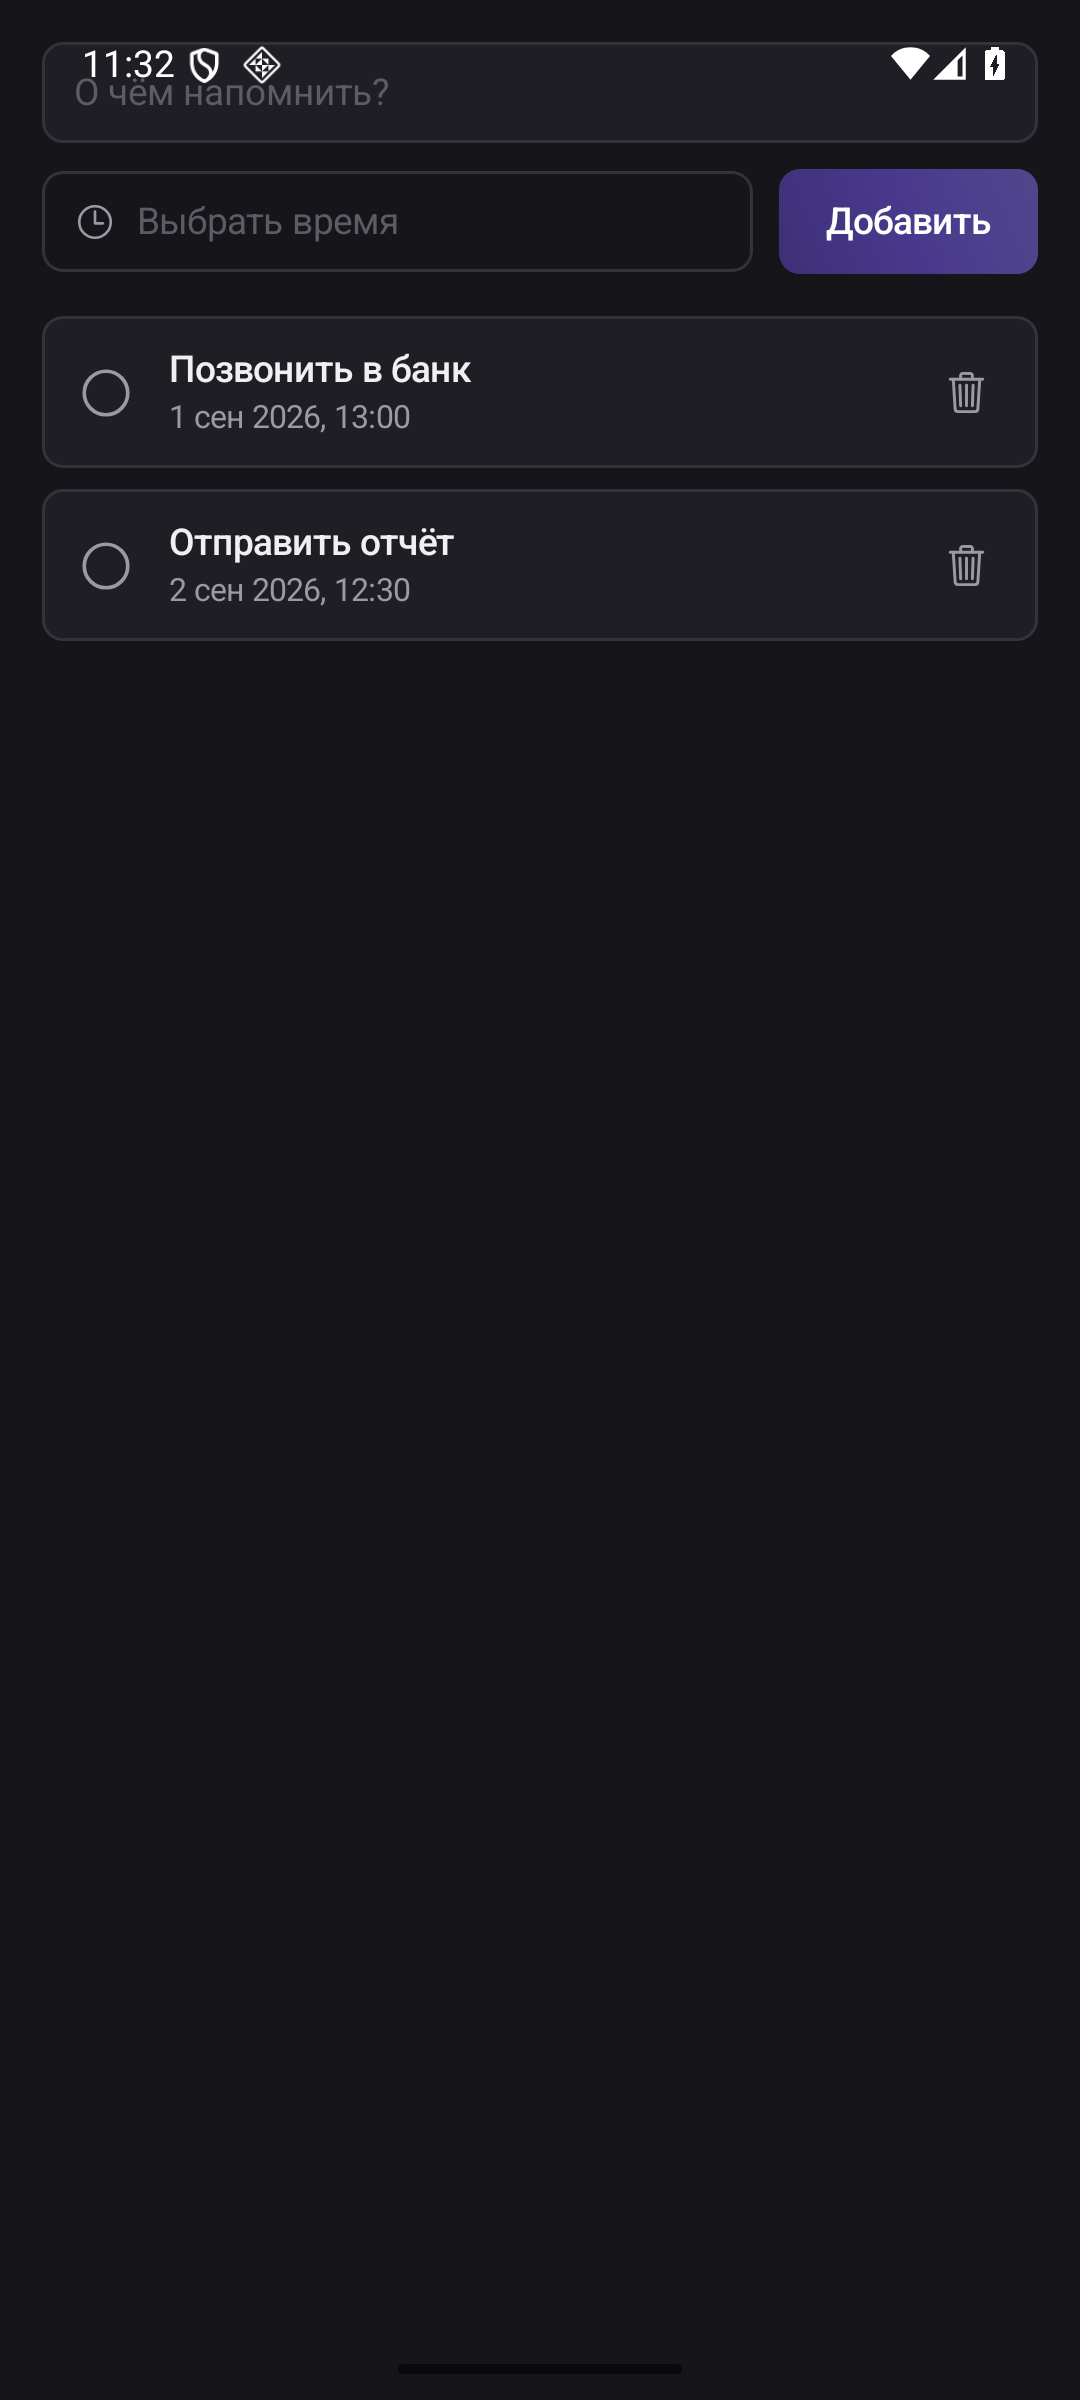
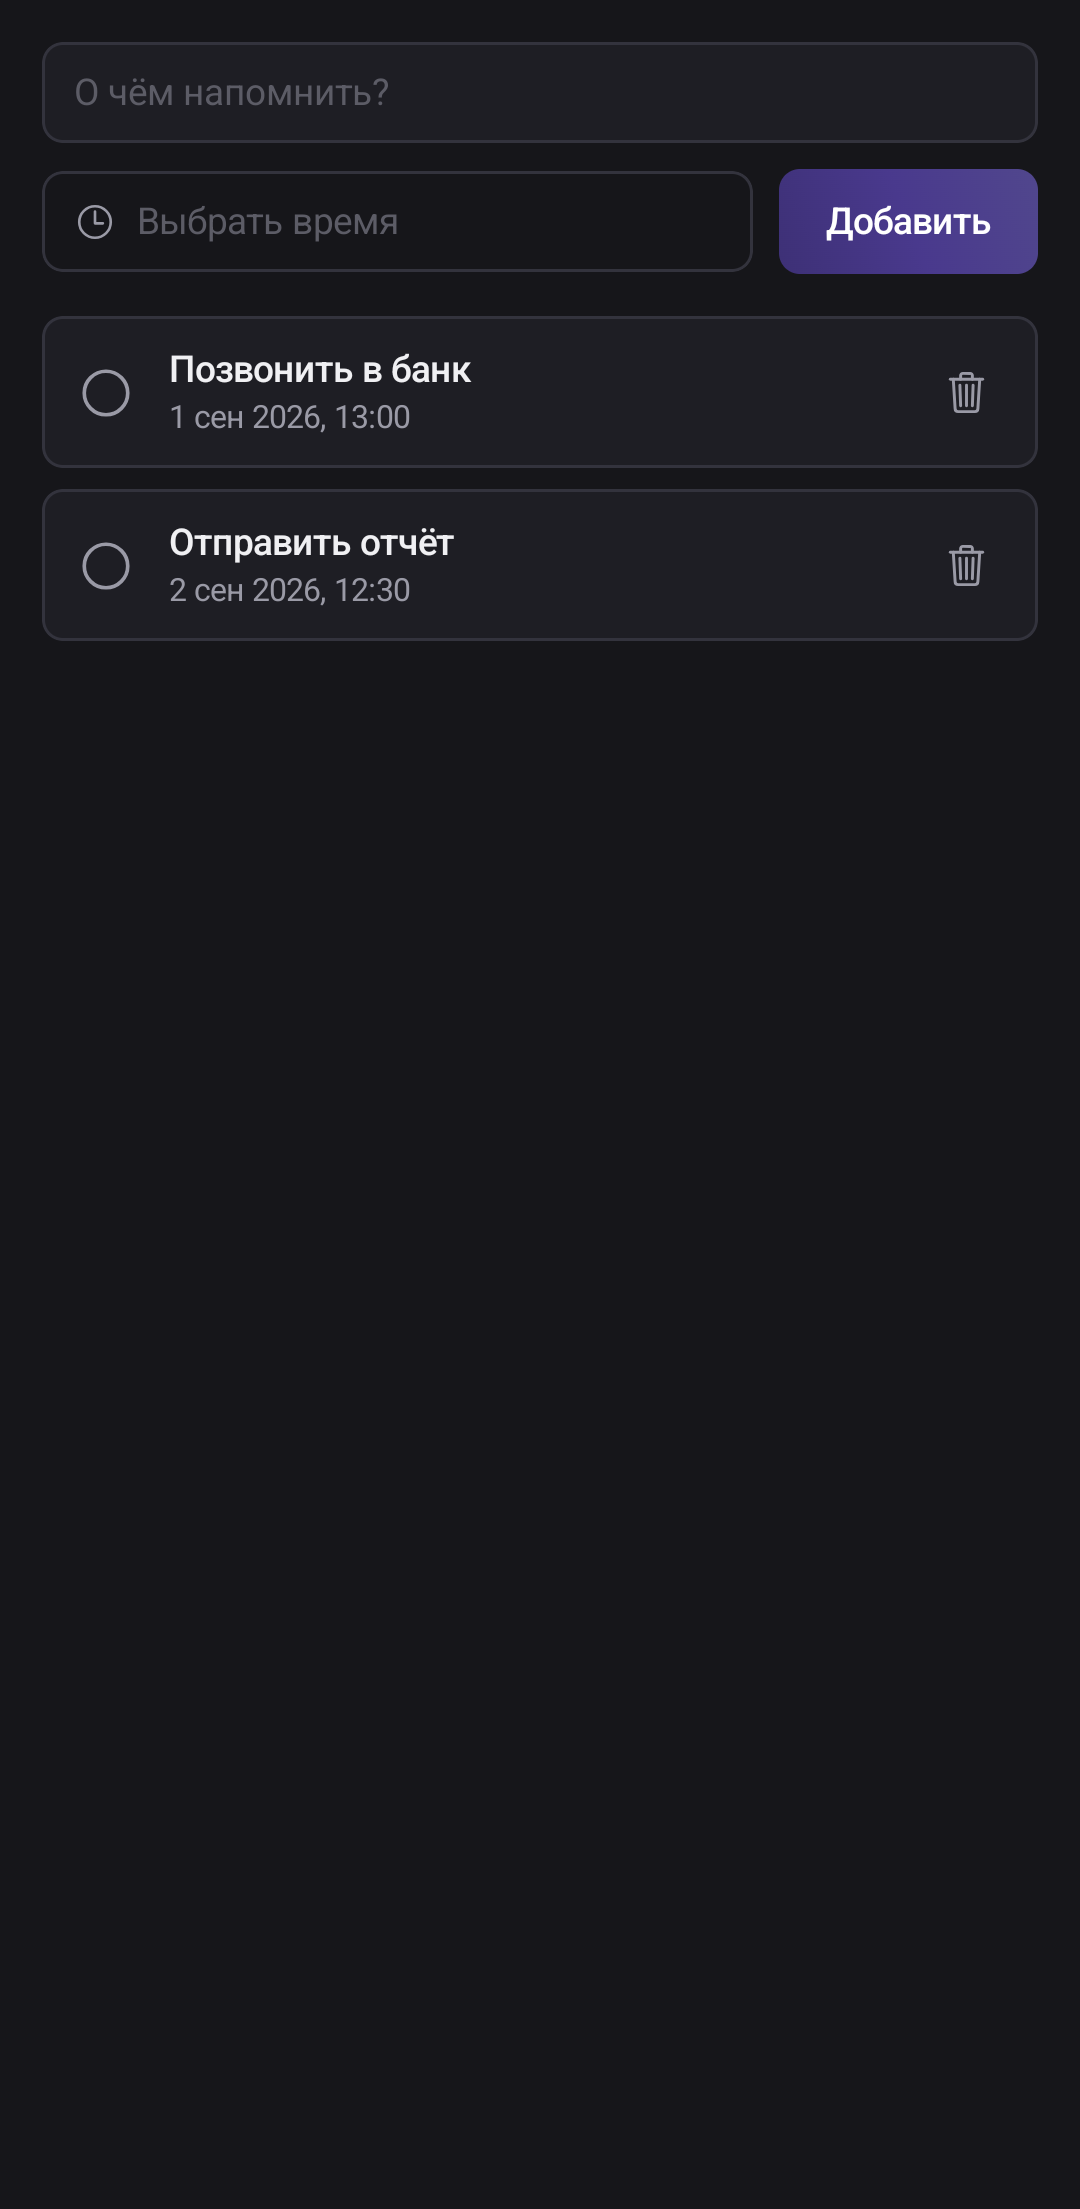
fix(android): чистые кадры мобильной справки (#2795)
Скриншоты для docs/help снимались с системной карточкой «Viewing full
screen» поверх сцены: попытка спрятать полосы уводила эмулятор в
immersive, а он отвечал своей подсказкой и затемнял всё под ней. Три
сцены из семи выходили побайтово одинаковыми — один только скрим.

Полосы больше не прячем: высота статус-бара и навигации снимается с
окна и кладётся отступом (systemBarsPadding в голой тест-активити
меряет ноль — инсеты ей не диспатчатся), а потом эти две полосы
срезаются из кадра. На выходе телефонный кадр без часов и жестовой
полосы, рядом с браузерными веб-кадрами.

Кадр снимается повторно, пока два подряд не совпадут: idle-очередь
сообщений ещё не значит, что список доехал до конца анимации входа, и
скриншот выходил рваным.

Проверено: 7/7 инструментальных сцен на tessera_e2e, 14 кадров
попарно различны; make lint-android зелёный, make test-android — 321
тест, 0 падений, 0 пропусков.

diff --git a/android/app/src/androidTest/java/website/msdnna/tessera/shots/HelpShotsTest.kt b/android/app/src/androidTest/java/website/msdnna/tessera/shots/HelpShotsTest.kt
@@ -1,21 +1,27 @@
 package website.msdnna.tessera.shots
 
+import android.content.res.Resources
 import android.graphics.Bitmap
+import android.os.SystemClock
 import androidx.activity.ComponentActivity
 import androidx.compose.foundation.layout.Box
 import androidx.compose.foundation.layout.fillMaxSize
-import androidx.compose.foundation.layout.systemBarsPadding
+import androidx.compose.foundation.layout.padding
 import androidx.compose.material3.Surface
 import androidx.compose.runtime.Composable
 import androidx.compose.runtime.MutableState
 import androidx.compose.runtime.getValue
 import androidx.compose.runtime.mutableStateOf
 import androidx.compose.ui.Modifier
+import androidx.compose.ui.platform.LocalDensity
 import androidx.compose.ui.test.junit4.ComposeContentTestRule
 import androidx.compose.ui.test.junit4.createAndroidComposeRule
 import androidx.compose.ui.test.onAllNodesWithText
 import androidx.compose.ui.test.onNodeWithTag
 import androidx.compose.ui.test.performClick
+import androidx.core.graphics.Insets
+import androidx.core.view.ViewCompat
+import androidx.core.view.WindowInsetsCompat
 import androidx.test.platform.app.InstrumentationRegistry
 import java.io.File
 import org.junit.Rule
@@ -60,6 +66,9 @@ class HelpShotsTest {
     val rules: RuleChain = RuleChain.outerRule(e2e).around(compose)
 
     private val dark = mutableStateOf(false)
+
+    /** System bar heights of the current mount — the strips [crop] cuts away. */
+    private var chrome: Insets = Insets.NONE
 
     @Test
     fun board() {
@@ -203,21 +212,60 @@ class HelpShotsTest {
     /**
      * Mounts [content] under the theme whose light/dark flag [shoot] flips.
      *
-     * `systemBarsPadding` is what `MainScreen` does for real: the test host is a
-     * bare activity drawing edge to edge, so without it the clock and the battery
-     * icon sit on top of the app's own toolbar — visible in the screenshot, and
-     * only in the screenshot.
+     * `MainScreen` uses `systemBarsPadding`, but in this host it measures zero:
+     * the bare test activity draws edge to edge and never gets the insets
+     * dispatched, so the padding collapses and the clock and the battery icon
+     * land on top of the app's own toolbar. The bars are therefore measured off
+     * the window ([measureSystemBars]) and applied as a plain padding — the same
+     * gap `MainScreen` would leave on a phone. [crop] then cuts those two strips
+     * back off, so the shot is the app alone, the way the web ones are.
+     *
+     * Hiding the bars instead does not work here: the emulator answers an
+     * immersive request with its own «Viewing full screen» card, which lands in
+     * the middle of the shot and dims everything under it.
      */
     private fun mount(content: @Composable () -> Unit) {
+        val bars = measureSystemBars()
+        chrome = bars
         val theme: MutableState<Boolean> = dark
         compose.setContent {
             val isDark by theme
+            val density = LocalDensity.current
             TesseraTheme(isDark = isDark) {
                 Surface(Modifier.fillMaxSize(), color = Tessera.colors.bg) {
-                    Box(Modifier.fillMaxSize().systemBarsPadding()) { content() }
+                    Box(
+                        Modifier.fillMaxSize().padding(
+                            top = with(density) { bars.top.toDp() },
+                            bottom = with(density) { bars.bottom.toDp() },
+                        ),
+                    ) { content() }
                 }
             }
         }
+    }
+
+    /**
+     * Height of the status bar and of the navigation bar, in pixels.
+     *
+     * Read off the window first; the platform dimens are the fallback for the
+     * case the window has not been laid out yet, when the root insets come back
+     * empty and a zero padding would put the clock back over the toolbar.
+     */
+    private fun measureSystemBars(): Insets {
+        var bars = Insets.NONE
+        compose.activityRule.scenario.onActivity { activity ->
+            bars = ViewCompat.getRootWindowInsets(activity.window.decorView)
+                ?.getInsets(WindowInsetsCompat.Type.systemBars())
+                ?: Insets.NONE
+        }
+        if (bars.top > 0 || bars.bottom > 0) return bars
+        val resources = InstrumentationRegistry.getInstrumentation().targetContext.resources
+        return Insets.of(0, resources.barHeight("status_bar_height"), 0, resources.barHeight("navigation_bar_height"))
+    }
+
+    private fun Resources.barHeight(name: String): Int {
+        val id = getIdentifier(name, "dimen", "android")
+        return if (id > 0) getDimensionPixelSize(id) else 0
     }
 
     private fun ComposeContentTestRule.awaitText(text: String) {
@@ -250,11 +298,41 @@ class HelpShotsTest {
      *
      * `waitForIdleSync` after Compose's own idle wait: composition being settled
      * says nothing about the frame having reached the surface UiAutomation reads.
+     *
+     * And it is not enough on its own. An idle message loop still leaves list
+     * items mid-entrance and the surface mid-repaint, and the screenshot then
+     * comes out torn — two states of the same list superimposed, glyphs clipped.
+     * So the shot is taken repeatedly until two consecutive ones are identical:
+     * a frame that no longer changes is a frame that has finished animating.
      */
     private fun screen(): Bitmap {
         val instrumentation = InstrumentationRegistry.getInstrumentation()
         instrumentation.waitForIdleSync()
-        return instrumentation.uiAutomation.takeScreenshot()
+        var last = instrumentation.uiAutomation.takeScreenshot()
+        repeat(STABLE_TRIES) {
+            SystemClock.sleep(STABLE_PAUSE_MS)
+            instrumentation.waitForIdleSync()
+            val next = instrumentation.uiAutomation.takeScreenshot()
+            if (next.sameAs(last)) return crop(next)
+            last.recycle()
+            last = next
+        }
+        return crop(last)
+    }
+
+    /**
+     * Cuts the status and navigation bars off the device screenshot.
+     *
+     * The scene under them is empty by construction — [mount] pads the content
+     * away from both — so this removes the emulator's clock and gesture bar and
+     * nothing of Tessera. What is left is a phone-shaped shot of the app, next
+     * to the web's browser-shaped ones.
+     */
+    private fun crop(full: Bitmap): Bitmap {
+        val top = chrome.top.coerceIn(0, full.height)
+        val height = (full.height - top - chrome.bottom).coerceIn(1, full.height - top)
+        if (top == 0 && height == full.height) return full
+        return Bitmap.createBitmap(full, 0, top, full.width, height)
     }
 
     private fun write(fileName: String, bitmap: Bitmap) {
@@ -262,7 +340,7 @@ class HelpShotsTest {
         // (`/sdcard/Android/data/…`) but since Android 11 the shell user cannot
         // read another app's directory there — the run would go green and `adb
         // pull` would then find nothing. `make android-shots` fetches these
-        // through `run-as`, which the debug build allows.
+        // through `adb root`, which the AVD's userdebug image allows.
         val dir = File(
             InstrumentationRegistry.getInstrumentation().targetContext.filesDir,
             "help-shots",
@@ -273,5 +351,11 @@ class HelpShotsTest {
 
     private companion object {
         const val AWAIT_MS = 20_000L
+
+        /** How many times [screen] re-shoots while the frame keeps changing. */
+        const val STABLE_TRIES = 12
+
+        /** Long enough for a Compose enter animation to move visibly between shots. */
+        const val STABLE_PAUSE_MS = 250L
     }
 }
